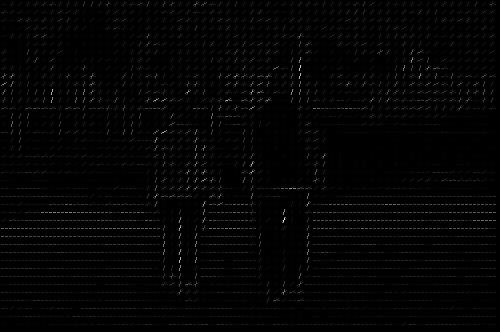
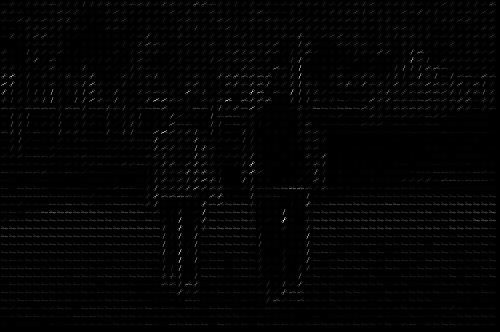
src: modify hog in lecture1

diff --git a/src/lecture1/hog/hog.py b/src/lecture1/hog/hog.py
@@ -82,7 +82,7 @@ def _hog_histograms(g_row, g_col, c_row, c_col, orientations):
                                 H = c_row
                             )
                             orientation_histogram[i, j, k] += G * grad * (1 - (angle - k * angle_unit) / angle_unit)
-                            orientation_histogram[i, j, k] += G * grad * (1 - (angle - k * angle_unit) / angle_unit)
+                            orientation_histogram[i, j, (k+1)%orientations] += G * grad * ((angle - k * angle_unit) / angle_unit)
 
     # return res
     return orientation_histogram
